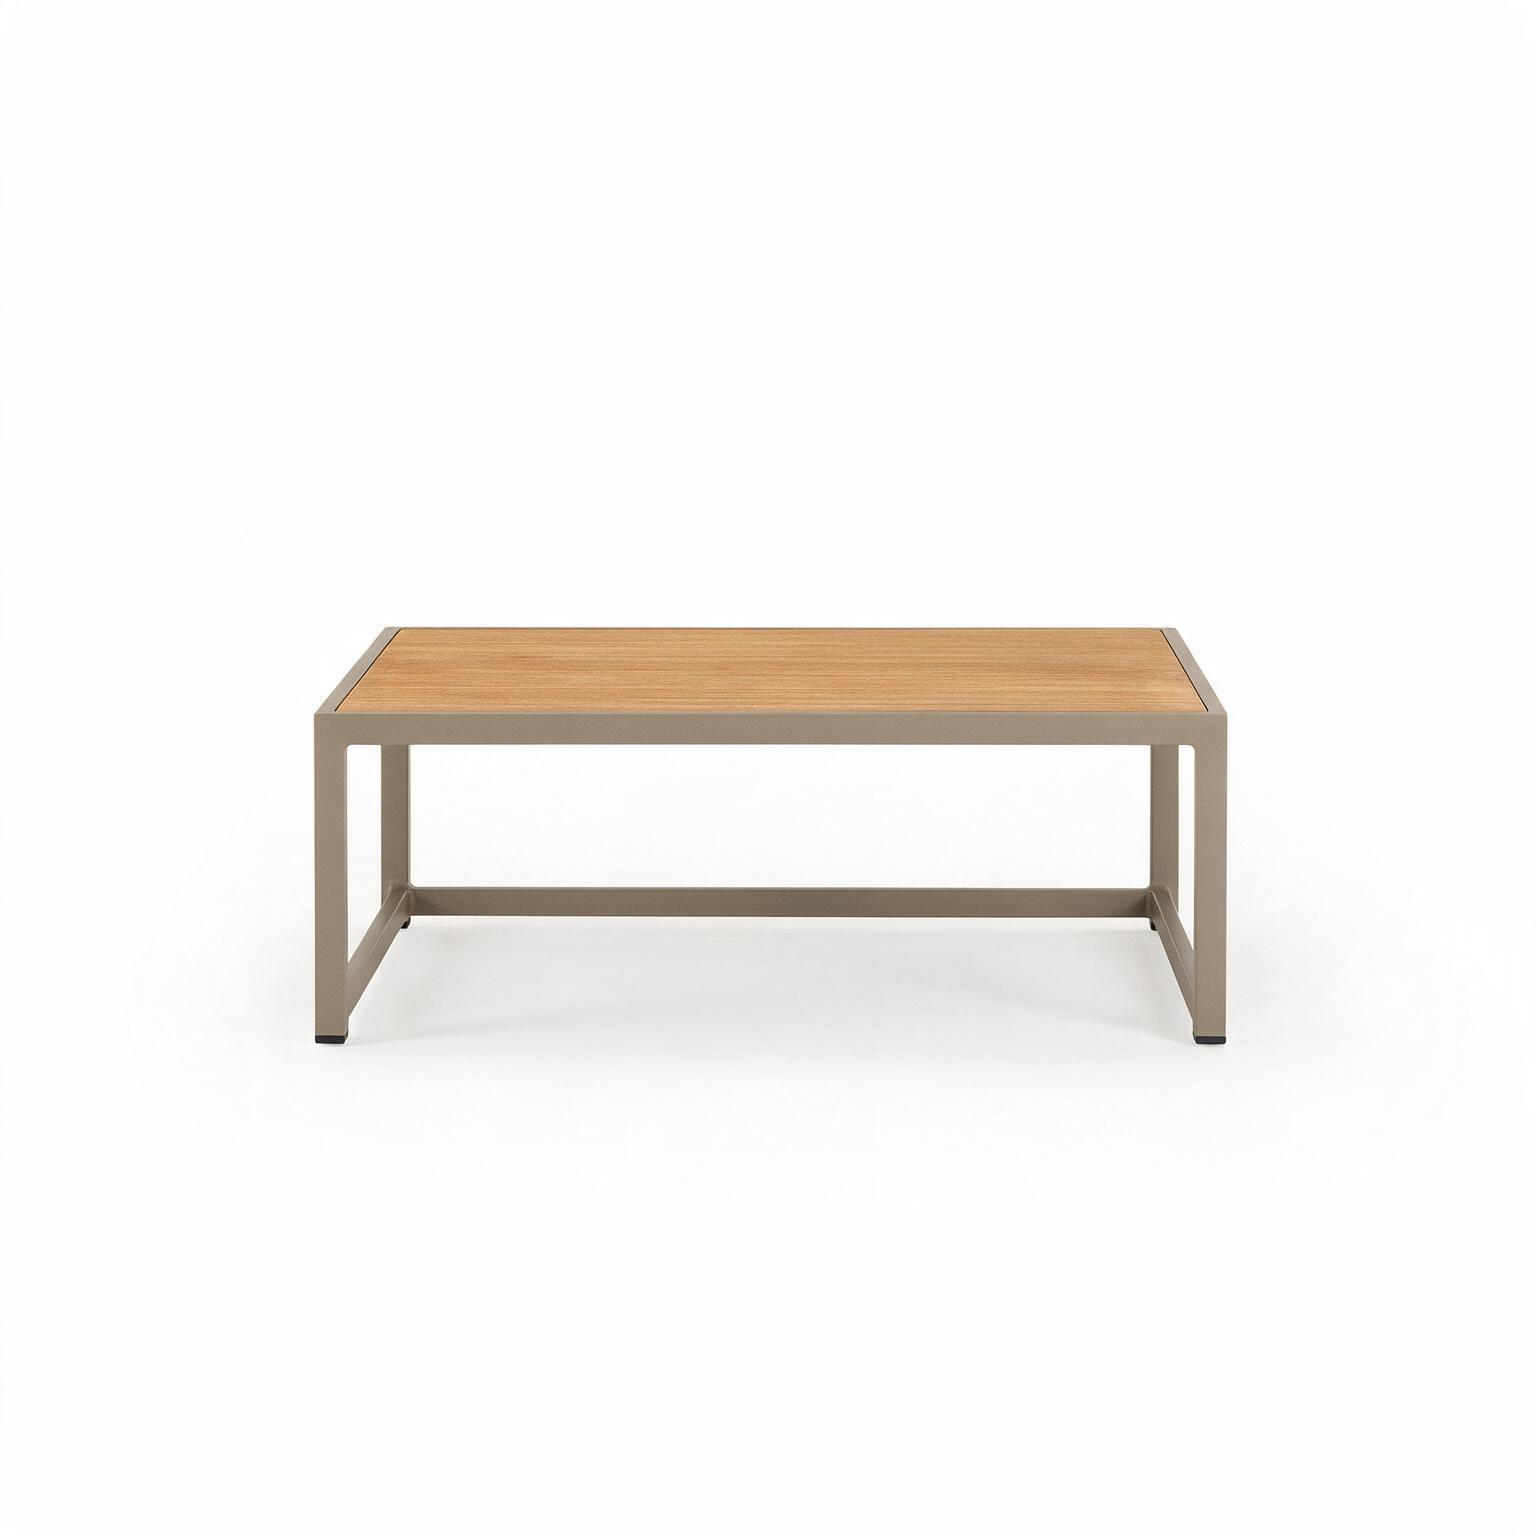
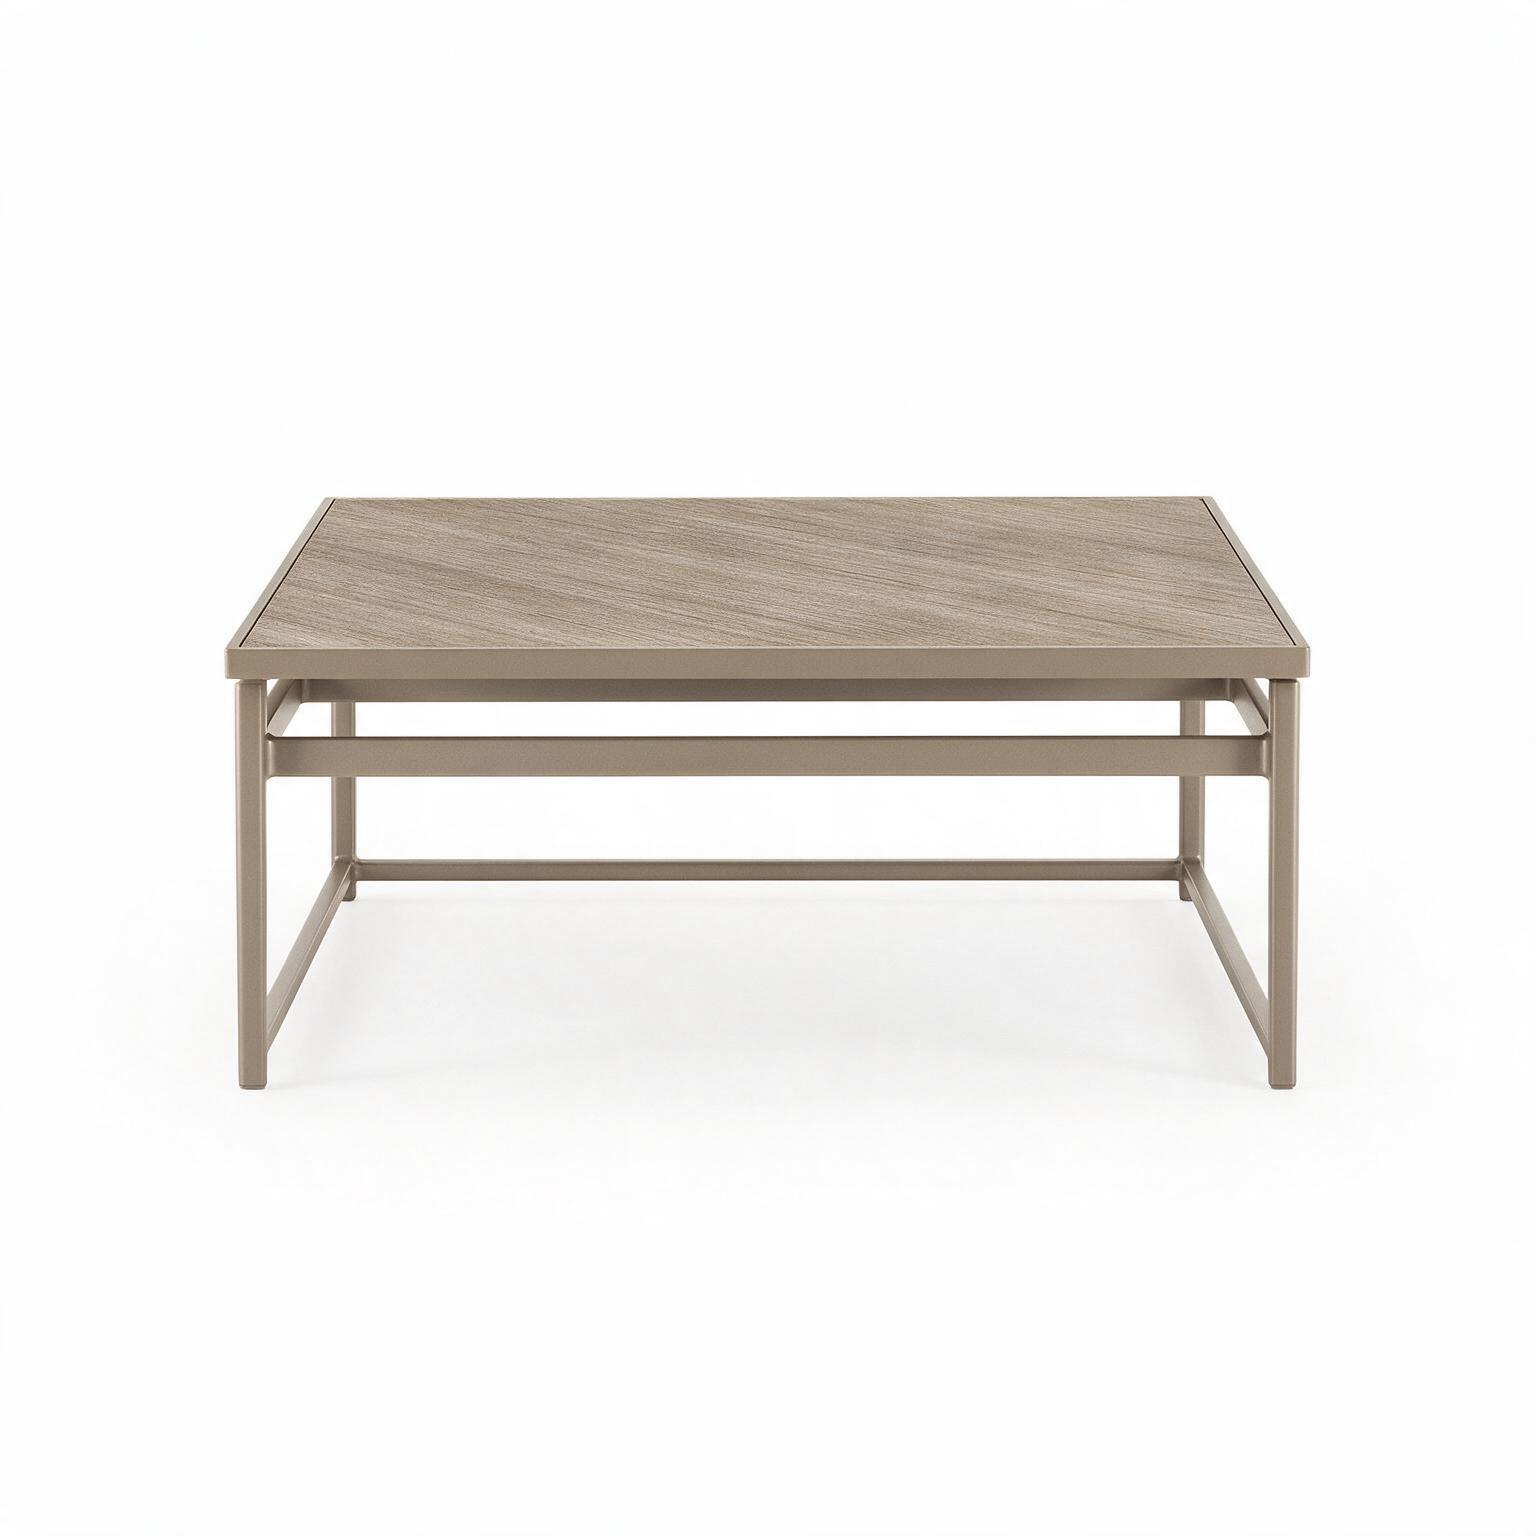
Homescreen redesign: RTL fix, unified title system, hero readability
- RTL (top priority): set dir="rtl" on <main> so every section renders RTL
  (home sections had no explicit dir and weren't inheriting it — that's why the
  projects split rendered LTR: image-right/text-left). Projects carousel now
  correctly text-right / image-left; also set dir explicitly on that section.
- Title system: new SectionHeading component — titles = terracotta 24px bold
  Heebo, running text = 18px normal Assistant, cream divider between (new
  --cream token). Applied to all 5 home titles (Our Story, Category, Selected
  Works, Materials, Join-the-club) and the carousel item titles. Materials
  section keeps WHITE titles (dark stage), same size/weight.
- Contrast: moved Category + Newsletter title areas onto light backgrounds
  (terracotta fails on sand); Category section -> warm-white, Newsletter ->
  sand section with a warm-white card.
- Hero slogan: added a soft, heavily-blurred light pool behind it so charcoal
  text stays readable over the dark center of the hero image (feathered, subtle).
- Category tiles: smaller, tighter layout (loved the art, was too big).
- Regenerated the coffee-table + dining-set images (were off-center) — now
  properly centered on pure white.

Build passes.

Changed region(s): [[0.125, 0.3125, 0.875, 0.7188]]

diff --git a/src/components/home/CategoryIcons.tsx b/src/components/home/CategoryIcons.tsx
@@ -1,5 +1,5 @@
 import { Link } from "react-router-dom";
-import SectionLabel from "@/components/SectionLabel";
+import SectionHeading from "@/components/SectionHeading";
 import Reveal from "@/components/Reveal";
 import loungeSet from "@/assets/categories/lounge-set.jpg";
 import sunbed from "@/assets/categories/sunbed.jpg";
@@ -23,19 +23,19 @@ const categories = [
 
 const CategoryIcons = () => {
   return (
-    <section className="py-16 md:py-24 bg-secondary">
+    <section className="py-16 md:py-24 bg-background">
       <div className="container-luxury">
-        <Reveal className="text-center max-w-2xl mx-auto mb-12 md:mb-14">
-          <SectionLabel as="h2" he="גלו את הריהוט שלנו לפי קטגוריה" className="text-sm md:text-base mb-6" />
-          <div className="w-16 h-px bg-primary/50 mx-auto" aria-hidden="true" />
+        <Reveal className="mb-10 md:mb-14 flex flex-col items-center">
+          <SectionHeading>גלו את הריהוט שלנו לפי קטגוריה</SectionHeading>
+          <div className="w-12 h-px bg-cream mt-4" aria-hidden="true" />
         </Reveal>
 
         <Reveal>
-          <ul className="grid grid-cols-2 sm:grid-cols-3 lg:grid-cols-4 gap-4 md:gap-6">
+          <ul className="grid grid-cols-3 sm:grid-cols-4 gap-3 md:gap-5 max-w-3xl mx-auto">
             {categories.map((c) => (
               <li key={c.slug}>
                 <Link to={`/collections#${c.slug}`} className="group block">
-                  <div className="relative w-full aspect-square rounded-sm bg-card border border-border/70 overflow-hidden transition-smooth group-hover:border-primary/60 group-hover:shadow-luxury group-hover:-translate-y-1">
+                  <div className="relative w-full aspect-square rounded-sm bg-secondary/40 border border-border/70 overflow-hidden transition-smooth group-hover:border-primary/60 group-hover:shadow-luxury group-hover:-translate-y-1">
                     <img
                       src={c.img}
                       alt={c.label}
@@ -45,11 +45,10 @@ const CategoryIcons = () => {
                       height={1536}
                       className="absolute inset-0 w-full h-full object-cover transition-transform duration-[600ms] ease-out group-hover:scale-[1.05]"
                     />
-                    {/* subtle warm wash on hover */}
                     <div className="absolute inset-0 bg-primary/0 group-hover:bg-primary/[0.05] transition-smooth" />
                   </div>
-                  <div className="mt-3 text-center">
-                    <span className="text-foreground text-sm md:text-base font-normal group-hover:text-primary transition-smooth">
+                  <div className="mt-2.5 text-center">
+                    <span className="text-foreground text-xs md:text-sm font-normal group-hover:text-primary transition-smooth">
                       {c.label}
                     </span>
                   </div>

diff --git a/src/components/home/AboutBrief.tsx b/src/components/home/AboutBrief.tsx
@@ -1,32 +1,31 @@
 import alumaLogo from "@/assets/aluma-logo.png";
-import SectionLabel from "@/components/SectionLabel";
+import SectionHeading from "@/components/SectionHeading";
 import Reveal from "@/components/Reveal";
 
 const AboutBrief = () => {
   return (
     <section className="py-16 md:py-32 bg-background">
       <div className="container-luxury">
-        <Reveal className="max-w-3xl mx-auto text-center">
-          <SectionLabel
-            as="h2"
-            he="הסיפור שלנו"
-            en="Our Story"
-            className="text-sm md:text-base font-light mb-8"
-          />
-
-          <div className="w-16 h-px bg-primary/50 mx-auto mb-10" aria-hidden="true" />
-          <p className="text-foreground text-lg md:text-2xl leading-relaxed font-normal">
-            <img
-              src={alumaLogo}
-              alt="Aluma"
-              className="inline-block h-[0.85em] w-auto align-baseline mx-1 -translate-y-[0.05em]"
-            />{" "}
-            נולדה מתוך חיבור בין חומר לאור. כל פריט מיוצר בהתאמה אישית, בקווים
-            נקיים ומדויקים, מתוך מחשבה על עיצוב, נוחות ועמידות מוחלטת לתנאי חוץ.
-            <br />
-            השילוב בין שלדת אלומיניום מתקדמת ואיכותית לבין בדים איכותיים, יוצר
-            חוויה שלא משתווה לשום דבר אחר.
-          </p>
+        <Reveal className="max-w-3xl mx-auto flex flex-col items-center">
+          <SectionHeading
+            align="center"
+            subtitle={
+              <>
+                <img
+                  src={alumaLogo}
+                  alt="Aluma"
+                  className="inline-block h-[0.85em] w-auto align-baseline mx-1 -translate-y-[0.05em]"
+                />{" "}
+                נולדה מתוך חיבור בין חומר לאור. כל פריט מיוצר בהתאמה אישית, בקווים
+                נקיים ומדויקים, מתוך מחשבה על עיצוב, נוחות ועמידות מוחלטת לתנאי חוץ.
+                <br />
+                השילוב בין שלדת אלומיניום מתקדמת ואיכותית לבין בדים איכותיים, יוצר
+                חוויה שלא משתווה לשום דבר אחר.
+              </>
+            }
+          >
+            הסיפור שלנו
+          </SectionHeading>
         </Reveal>
       </div>
     </section>
@@ -34,4 +33,3 @@ const AboutBrief = () => {
 };
 
 export default AboutBrief;
-

diff --git a/src/components/home/Newsletter.tsx b/src/components/home/Newsletter.tsx
@@ -2,7 +2,7 @@ import { FormEvent, useState } from "react";
 import { Mail, Check } from "lucide-react";
 import { toast } from "sonner";
 import Reveal from "@/components/Reveal";
-import SectionLabel from "@/components/SectionLabel";
+import SectionHeading from "@/components/SectionHeading";
 import { supabase } from "@/integrations/supabase/client";
 
 const Newsletter = () => {
@@ -43,23 +43,18 @@ const Newsletter = () => {
   };
 
   return (
-    <section className="py-16 md:py-24 bg-background border-t border-border/60">
+    <section className="py-16 md:py-24 bg-secondary">
       <div className="container-luxury">
         <Reveal>
-          <div className="relative max-w-4xl mx-auto bg-secondary rounded-sm overflow-hidden p-8 md:p-14 text-center border border-border/60">
-            <SectionLabel
-              he="הצטרפו למועדון"
-              en="Aluma Insider"
-              className="text-xs text-foreground mb-4 justify-center"
-            />
-            <h2 className="font-display text-2xl sm:text-3xl md:text-4xl text-foreground leading-tight mb-3">
-              השראה לחוץ שלך,
-              <span className="italic"> ישירות למייל</span>
-            </h2>
-            <p className="text-muted-foreground text-sm md:text-base max-w-xl mx-auto mb-8 leading-relaxed">
-              טיפים לעיצוב מרפסות וגינות, הצצה לקולקציות חדשות לפני כולם,
-              ותוכן השראה שבועי ישירות לאינבוקס.
-            </p>
+          <div className="relative max-w-4xl mx-auto bg-background rounded-sm overflow-hidden p-8 md:p-14 text-center border border-border/60 shadow-soft">
+            <div className="flex flex-col items-center mb-8">
+              <SectionHeading
+                align="center"
+                subtitle="טיפים לעיצוב מרפסות וגינות, הצצה לקולקציות חדשות לפני כולם, ותוכן השראה שבועי ישירות לאינבוקס."
+              >
+                הצטרפו למועדון
+              </SectionHeading>
+            </div>
 
             {subscribed ? (
               <div

diff --git a/src/components/home/ProjectsGrid.tsx b/src/components/home/ProjectsGrid.tsx
@@ -2,7 +2,7 @@ import { useState, useEffect, useRef, useCallback } from "react";
 import { ArrowLeft, ArrowRight } from "lucide-react";
 import { Link } from "react-router-dom";
 import Reveal from "@/components/Reveal";
-import SectionLabel from "@/components/SectionLabel";
+import SectionHeading from "@/components/SectionHeading";
 import { projects } from "@/data/projects";
 
 const SLIDE_MS = 6000;
@@ -54,6 +54,7 @@ const ProjectsGrid = () => {
 
   return (
     <section
+      dir="rtl"
       className="py-16 md:py-28 bg-background overflow-hidden"
       onMouseEnter={() => setPaused(true)}
       onMouseLeave={() => setPaused(false)}
@@ -61,8 +62,8 @@ const ProjectsGrid = () => {
       onTouchEnd={onTouchEnd}
     >
       <div className="container-luxury">
-        <Reveal className="text-center mb-10 md:mb-16">
-          <SectionLabel he="עבודות נבחרות" className="text-xs md:text-sm justify-center" />
+        <Reveal className="mb-10 md:mb-16 flex flex-col items-center">
+          <SectionHeading>עבודות נבחרות</SectionHeading>
         </Reveal>
 
         <div className="grid md:grid-cols-2 gap-8 md:gap-14 items-center max-w-6xl mx-auto">
@@ -76,15 +77,17 @@ const ProjectsGrid = () => {
                 </span>
               </div>
 
-              <h3 className="font-display text-3xl md:text-5xl font-light text-primary leading-tight mb-3">
+              <h3 className="font-display font-bold text-2xl text-primary leading-snug mb-2">
                 {p.name}
               </h3>
 
-              <div className="text-xs md:text-sm tracking-[0.28em] uppercase text-muted-foreground mb-6">
+              <div className="text-xs tracking-[0.28em] uppercase text-muted-foreground mb-4">
                 {p.location} · {p.tag} · {p.year}
               </div>
 
-              <p className="text-foreground leading-relaxed max-w-md mx-auto md:mx-0 mb-8">
+              <div className="w-12 h-px bg-cream mb-4 mx-auto md:mx-0" aria-hidden="true" />
+
+              <p className="text-lg text-foreground leading-relaxed max-w-md mx-auto md:mx-0 mb-8">
                 {p.intro}
               </p>
 

diff --git a/src/components/home/MaterialsBrief.tsx b/src/components/home/MaterialsBrief.tsx
@@ -4,6 +4,7 @@ import { ChevronLeft, ChevronRight, ArrowLeft } from "lucide-react";
 import { Link } from "react-router-dom";
 import { cn } from "@/lib/utils";
 import { materials } from "@/data/materials";
+import SectionHeading from "@/components/SectionHeading";
 
 const items = materials.map((m) => ({
   id: m.slug,
@@ -97,13 +98,8 @@ const MaterialsBrief = () => {
       </div>
 
       <div className="relative z-10 flex flex-1 flex-col justify-center px-4 md:px-8 pt-10">
-        <div className="text-center mb-4">
-          <p className="text-[11px] md:text-xs tracking-[0.4em] uppercase text-secondary mb-2">
-            החומרים שלנו
-          </p>
-          <h2 className="font-display text-2xl md:text-4xl font-light text-background">
-            רק החומרים הטובים בעולם
-          </h2>
+        <div className="mb-4 flex flex-col items-center">
+          <SectionHeading light>החומרים שלנו</SectionHeading>
         </div>
 
         {/* 3D rail */}
@@ -168,10 +164,10 @@ const MaterialsBrief = () => {
                 <span className="block text-[11px] font-medium uppercase tracking-[0.25em] text-secondary">
                   {activeItem.meta}
                 </span>
-                <h3 className="font-display text-2xl md:text-3xl font-light text-background">
+                <h3 className="font-display font-bold text-2xl text-background leading-snug">
                   {activeItem.title}
                 </h3>
-                <p className="max-w-md text-sm text-background/70 leading-relaxed">
+                <p className="max-w-md text-lg text-background/75 leading-relaxed">
                   {activeItem.description}
                 </p>
               </motion.div>

diff --git a/src/components/SectionHeading.tsx b/src/components/SectionHeading.tsx
@@ -1,0 +1,53 @@
+import type { ReactNode } from "react";
+
+interface SectionHeadingProps {
+  /** The title text. */
+  children: ReactNode;
+  /** Optional running text shown under the title (with a cream divider between). */
+  subtitle?: ReactNode;
+  /** White title/text for dark sections (e.g. the materials rail). */
+  light?: boolean;
+  /** Horizontal alignment. */
+  align?: "center" | "start";
+  as?: "h2" | "h3";
+  className?: string;
+}
+
+// Shared home-screen heading: terracotta (or white) 24px bold Heebo title,
+// cream divider, 18px normal Assistant running text.
+const SectionHeading = ({
+  children,
+  subtitle,
+  light = false,
+  align = "center",
+  as: Tag = "h2",
+  className = "",
+}: SectionHeadingProps) => {
+  const alignCls = align === "center" ? "items-center text-center" : "items-start text-right";
+  return (
+    <div className={`flex flex-col ${alignCls} ${className}`}>
+      <Tag
+        className={`font-display font-bold text-2xl leading-snug ${light ? "text-background" : "text-primary"}`}
+      >
+        {children}
+      </Tag>
+      {subtitle != null && subtitle !== "" && (
+        <>
+          <div
+            className={`w-12 h-px my-4 ${light ? "bg-background/25" : "bg-cream"}`}
+            aria-hidden="true"
+          />
+          <p
+            className={`text-lg font-normal leading-relaxed max-w-2xl ${
+              light ? "text-background/75" : "text-foreground"
+            }`}
+          >
+            {subtitle}
+          </p>
+        </>
+      )}
+    </div>
+  );
+};
+
+export default SectionHeading;

diff --git a/src/components/Hero.tsx b/src/components/Hero.tsx
@@ -91,12 +91,16 @@ const Hero = () => {
           fetchPriority="high"
           className="w-[58%] sm:w-[68%] max-w-[320px] sm:max-w-[560px] md:max-w-[760px] lg:max-w-[980px] h-auto mb-5 sm:mb-8 animate-fade-in-up drop-shadow-md"
         />
-        <p
-          className="text-[11px] sm:text-sm md:text-base tracking-[0.22em] sm:tracking-[0.4em] uppercase text-foreground font-semibold animate-fade-in-up mb-6 px-2 whitespace-nowrap"
-          style={{ animationDelay: "0.2s" }}
-        >
-          {subtitle}
-        </p>
+        <div className="relative mb-6 animate-fade-in-up" style={{ animationDelay: "0.2s" }}>
+          {/* Soft feathered light pool so the slogan stays readable over the busy hero image */}
+          <span
+            aria-hidden="true"
+            className="pointer-events-none absolute left-1/2 top-1/2 -translate-x-1/2 -translate-y-1/2 w-[135%] h-[320%] rounded-[50%] bg-background/50 blur-2xl"
+          />
+          <p className="relative z-10 text-[11px] sm:text-sm md:text-base tracking-[0.22em] sm:tracking-[0.4em] uppercase text-foreground font-semibold px-2 whitespace-nowrap">
+            {subtitle}
+          </p>
+        </div>
         {settings.cta_text && settings.cta_link && (
           <Link
             to={settings.cta_link}

diff --git a/src/index.css b/src/index.css
@@ -43,6 +43,9 @@
     /* Charcoal footer / mobile bar — warm-white text reads ~12:1 */
     --footer: 0 0% 18%;
 
+    /* Cream — warm beige used for title/text dividers (visible on warm-white AND sand) */
+    --cream: 34 30% 80%;
+
     /* Typography — two faces only. Titles: Heebo (light). Running text: Assistant. */
     --font-display: 'Heebo', system-ui, sans-serif;
     --font-body: 'Assistant', system-ui, sans-serif;

diff --git a/src/components/Layout.tsx b/src/components/Layout.tsx
@@ -18,7 +18,7 @@ const Layout = ({ children }: { children: ReactNode }) => {
         דלגו לתוכן הראשי
       </a>
       <Header />
-      <main id="main-content" tabIndex={-1} className="flex-1 focus:outline-none">
+      <main id="main-content" dir="rtl" tabIndex={-1} className="flex-1 focus:outline-none">
         {children}
       </main>
       <Footer />

diff --git a/tailwind.config.ts b/tailwind.config.ts
@@ -47,6 +47,7 @@ export default {
           foreground: "hsl(var(--card-foreground))",
         },
         footer: "hsl(var(--footer))",
+        cream: "hsl(var(--cream))",
       },
       fontFamily: {
         display: ['var(--font-display)'],
